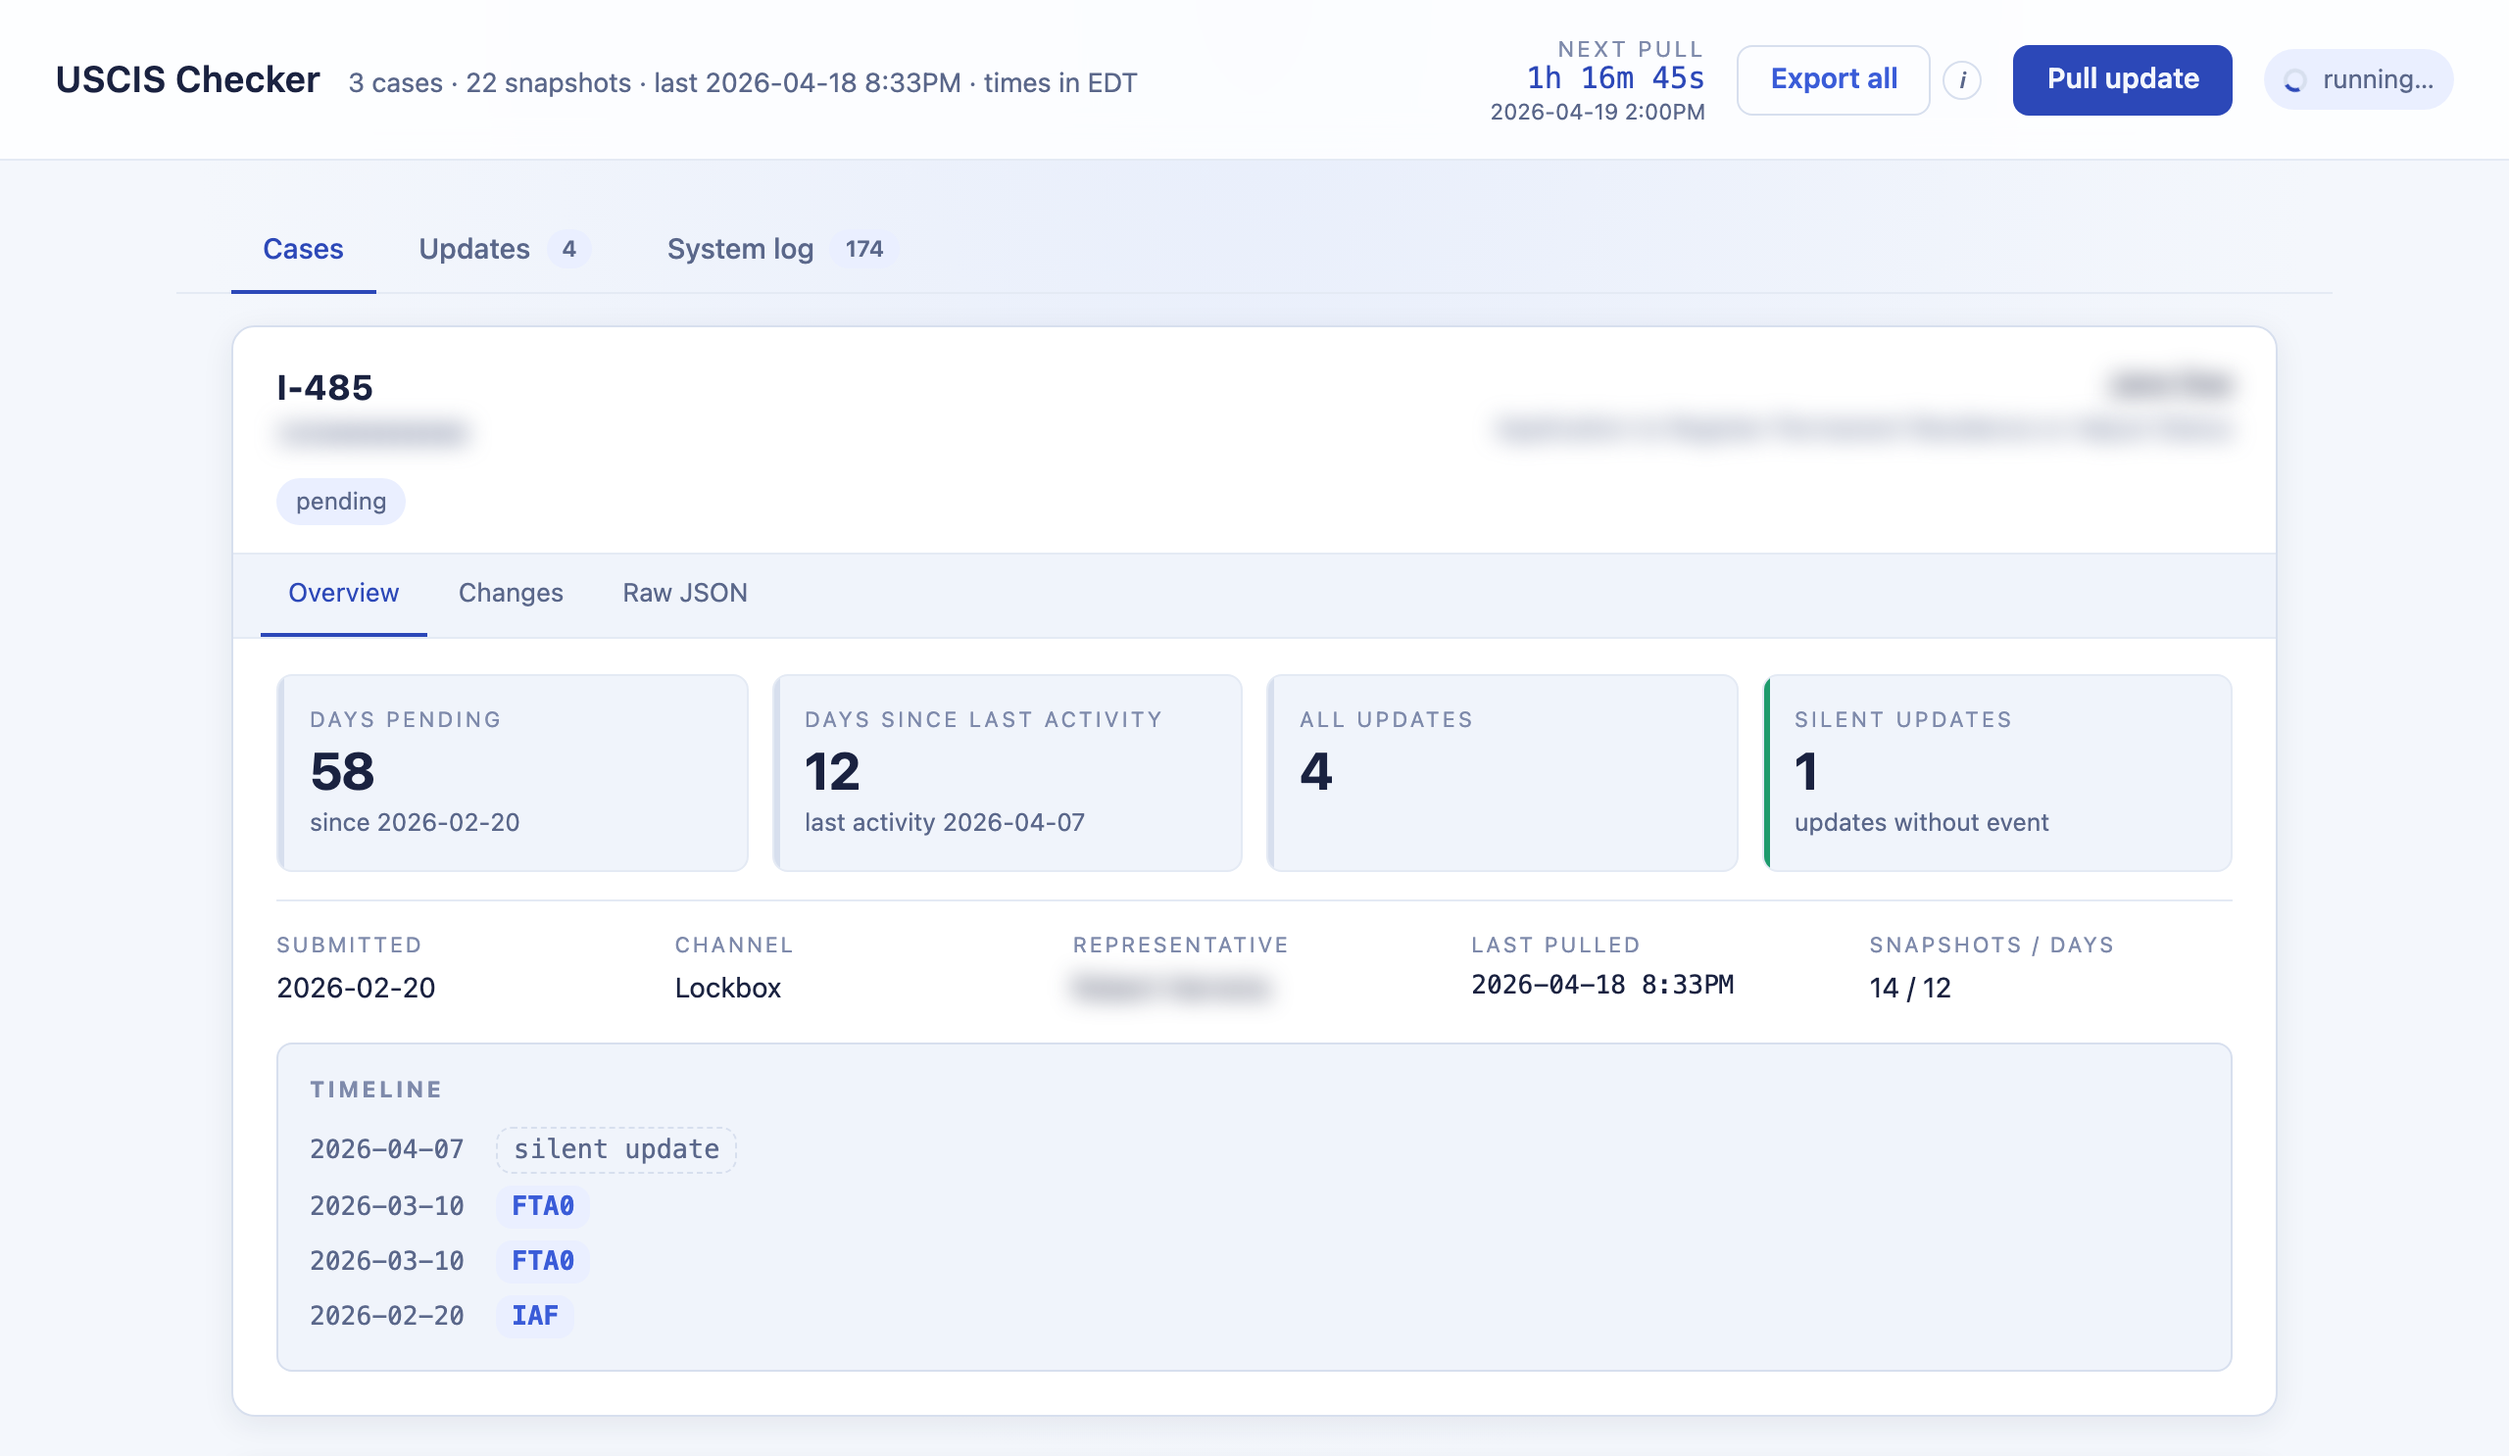
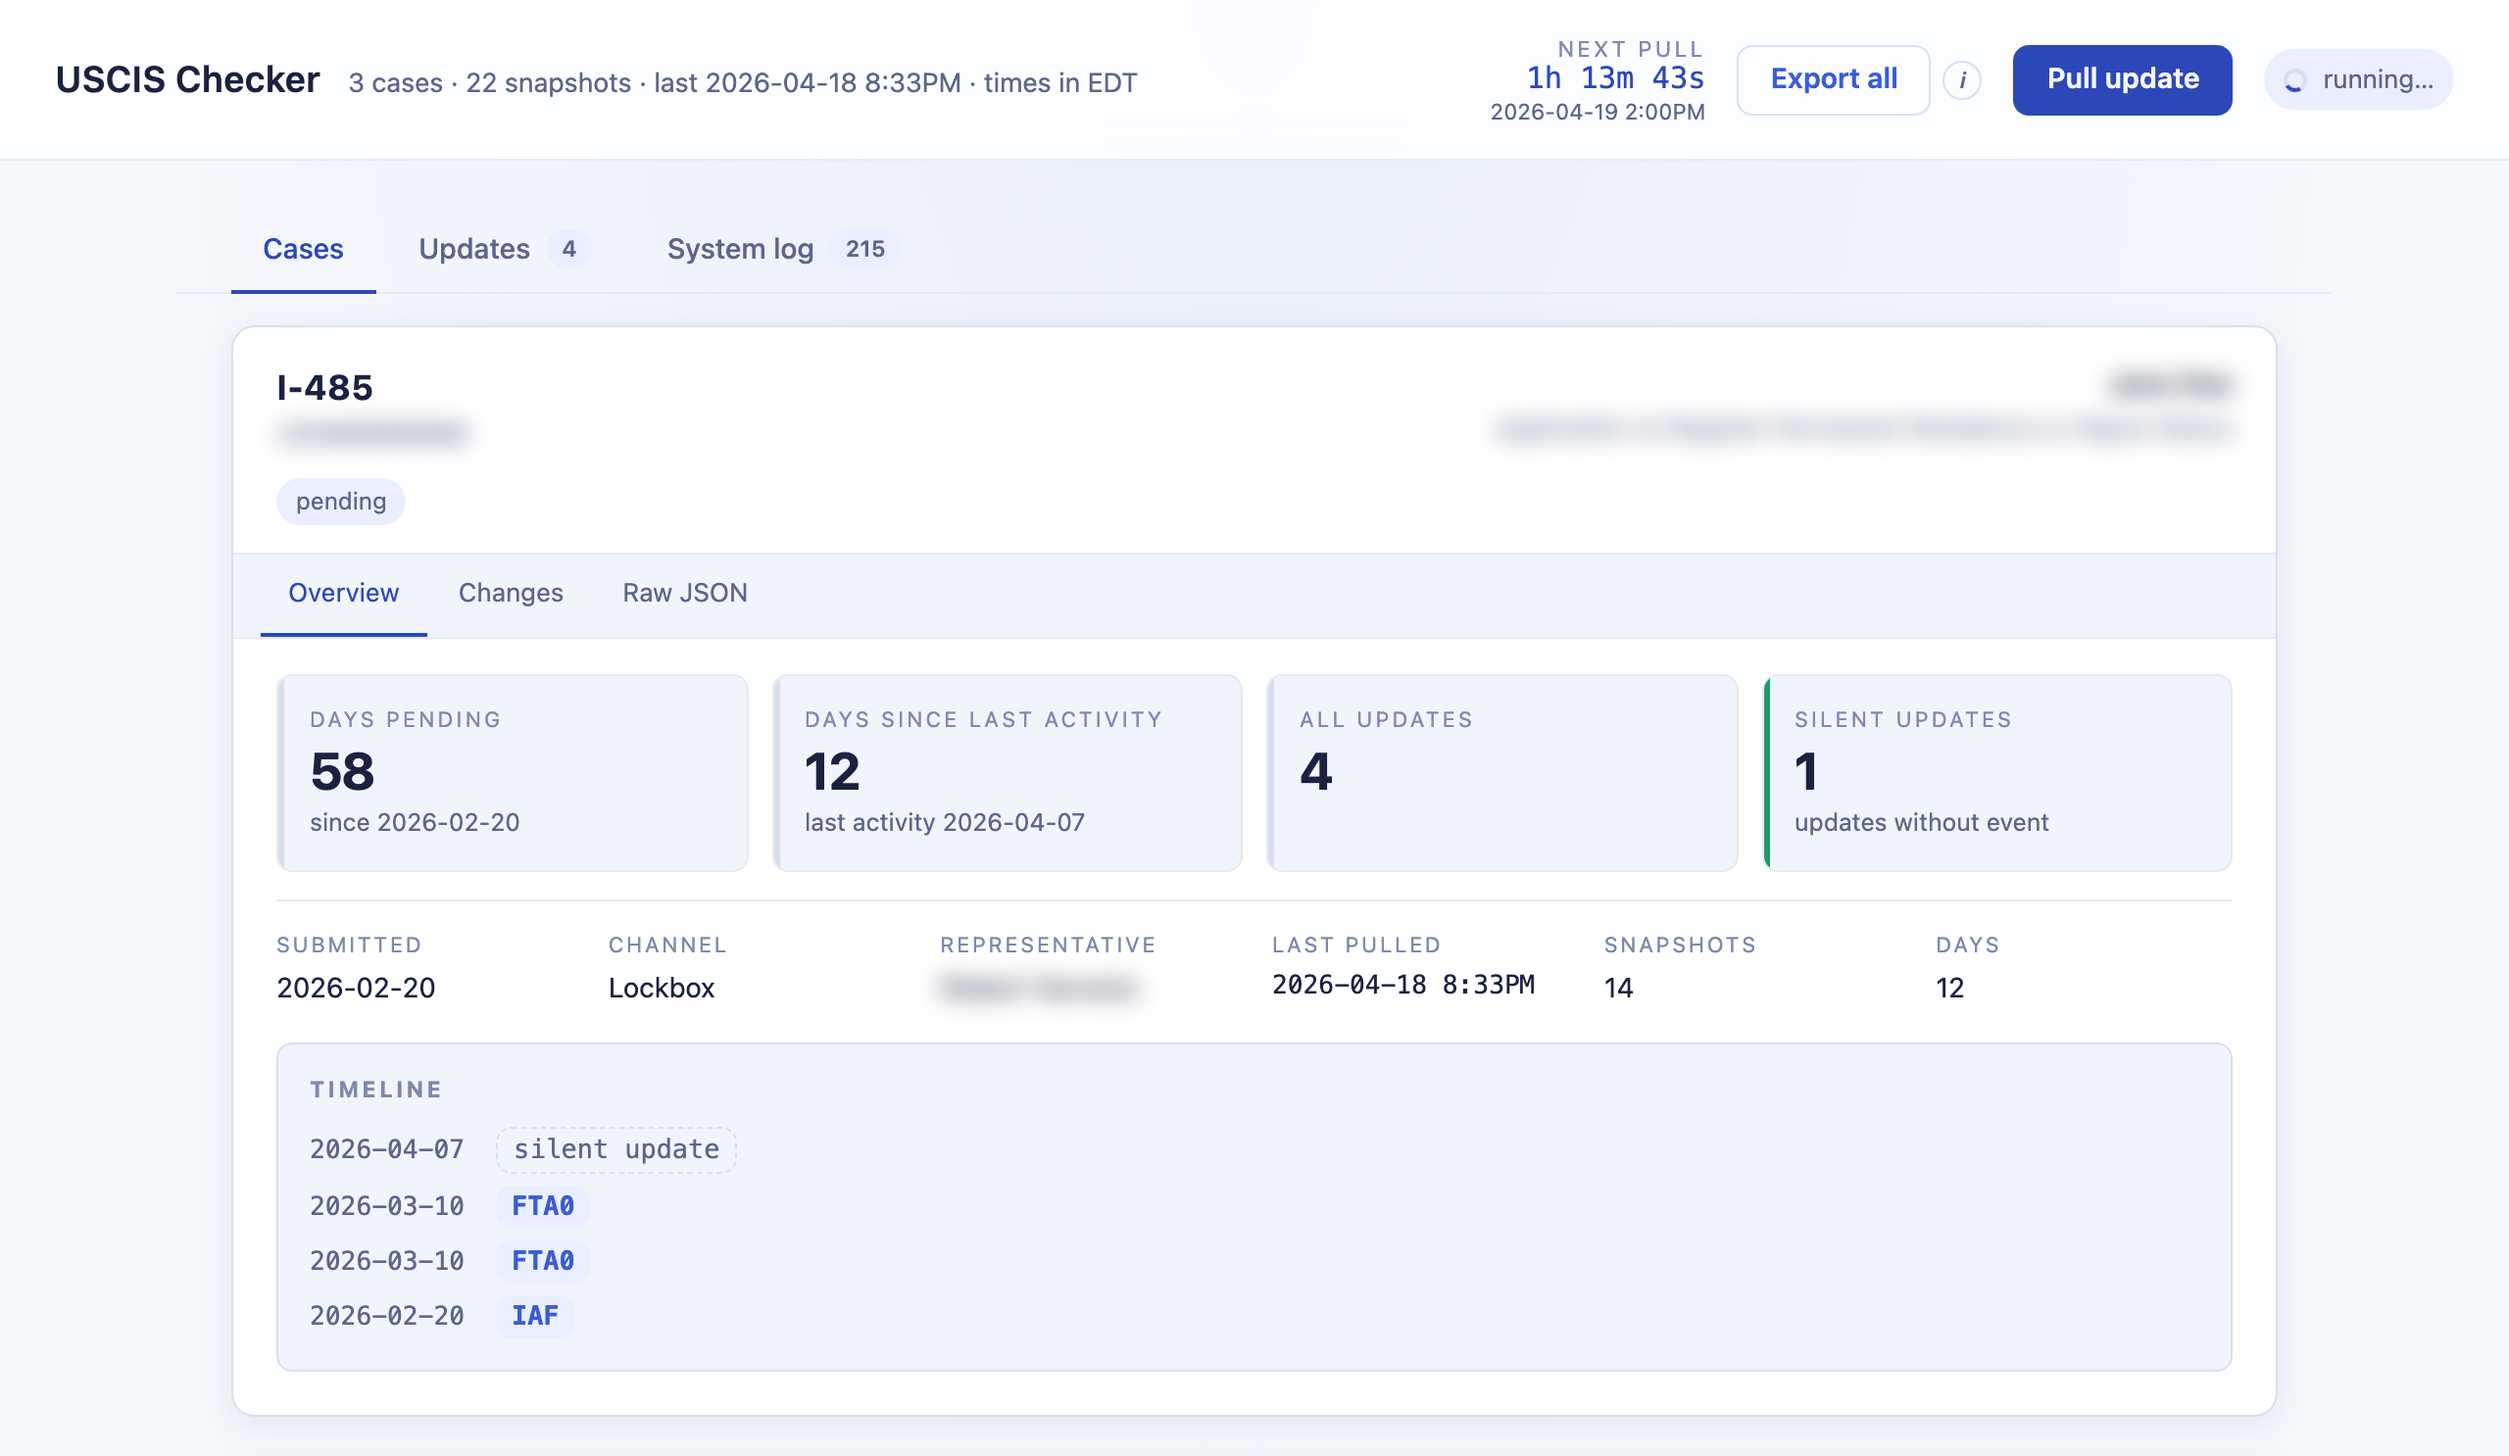
ui: split Snapshots / Days into two aligned sub-fact cells
The sub-facts row previously mashed 'Snapshots / days  6 / 2' into a
single cell, which misaligned against the other label/value pairs.
Splitting into two separate cells lets the grid auto-align all six
sub-facts (Submitted, Channel, Representative, Last pulled, Snapshots,
Days).

Tests:
  - /api/cases empty case now asserts days == 0
  - Logs-present case asserts days == 2 matches captures == 2
  - New test: same-day captures bump captures but not days, so the UI
    shows 3/2 rather than 3/3

Changed region(s): [[0.375, 0.6191, 0.6875, 0.712], [0.25, 0.6191, 0.3125, 0.681], [0.75, 0.6501, 0.7812, 0.681]]

diff --git a/src/static/app.js b/src/static/app.js
@@ -392,7 +392,8 @@ function _renderSubFacts(c, latest) {
     { k: "Channel",        v: latest.elisChannelType || "—" },
     { k: "Representative", v: reps || "—" },
     { k: "Last pulled",    v: c.capturedAt ? formatLocalDateTime(c.capturedAt) : "—", mono: true },
-    { k: "Snapshots / days", v: `${c.captures} / ${c.days}` },
+    { k: "Snapshots",      v: `${c.captures ?? 0}` },
+    { k: "Days",           v: `${c.days ?? 0}` },
   ];
   for (const f of facts) {
     const el = document.createElement("div");

diff --git a/tests/test_server.py b/tests/test_server.py
@@ -359,6 +359,7 @@ def test_api_cases_empty_when_no_logs(client):
     body = r.get_json()
     assert "cases" in body
     assert body["cases"][0]["captures"] == 0
+    assert body["cases"][0]["days"] == 0
 
 
 def test_api_cases_surfaces_summary_when_logs_exist(client, tmp_path):
@@ -371,7 +372,24 @@ def test_api_cases_surfaces_summary_when_logs_exist(client, tmp_path):
     body = r.get_json()
     case = body["cases"][0]
     assert case["captures"] == 2
+    assert case["days"] == 2
     assert case["summary"]["stage"] == "Pending receipt"
+
+
+def test_api_cases_captures_and_days_diverge_on_same_day_pulls(client, tmp_path):
+    # UI renders `captures` and `days` as two separate sub-fact cells, so the
+    # API must expose them as independent counters — same-day snapshots bump
+    # `captures` but not `days`.
+    data_dir = tmp_path / "data"
+    _seed_log(data_dir, [
+        _entry("2026-03-09T06:00:00Z"),
+        _entry("2026-03-09T18:00:00Z"),  # same calendar day
+        _entry("2026-03-10T06:00:00Z"),
+    ])
+    r = client.get("/api/cases")
+    case = r.get_json()["cases"][0]
+    assert case["captures"] == 3
+    assert case["days"] == 2
 
 
 def test_api_history_preserves_uscis_key_order(client, tmp_path):
